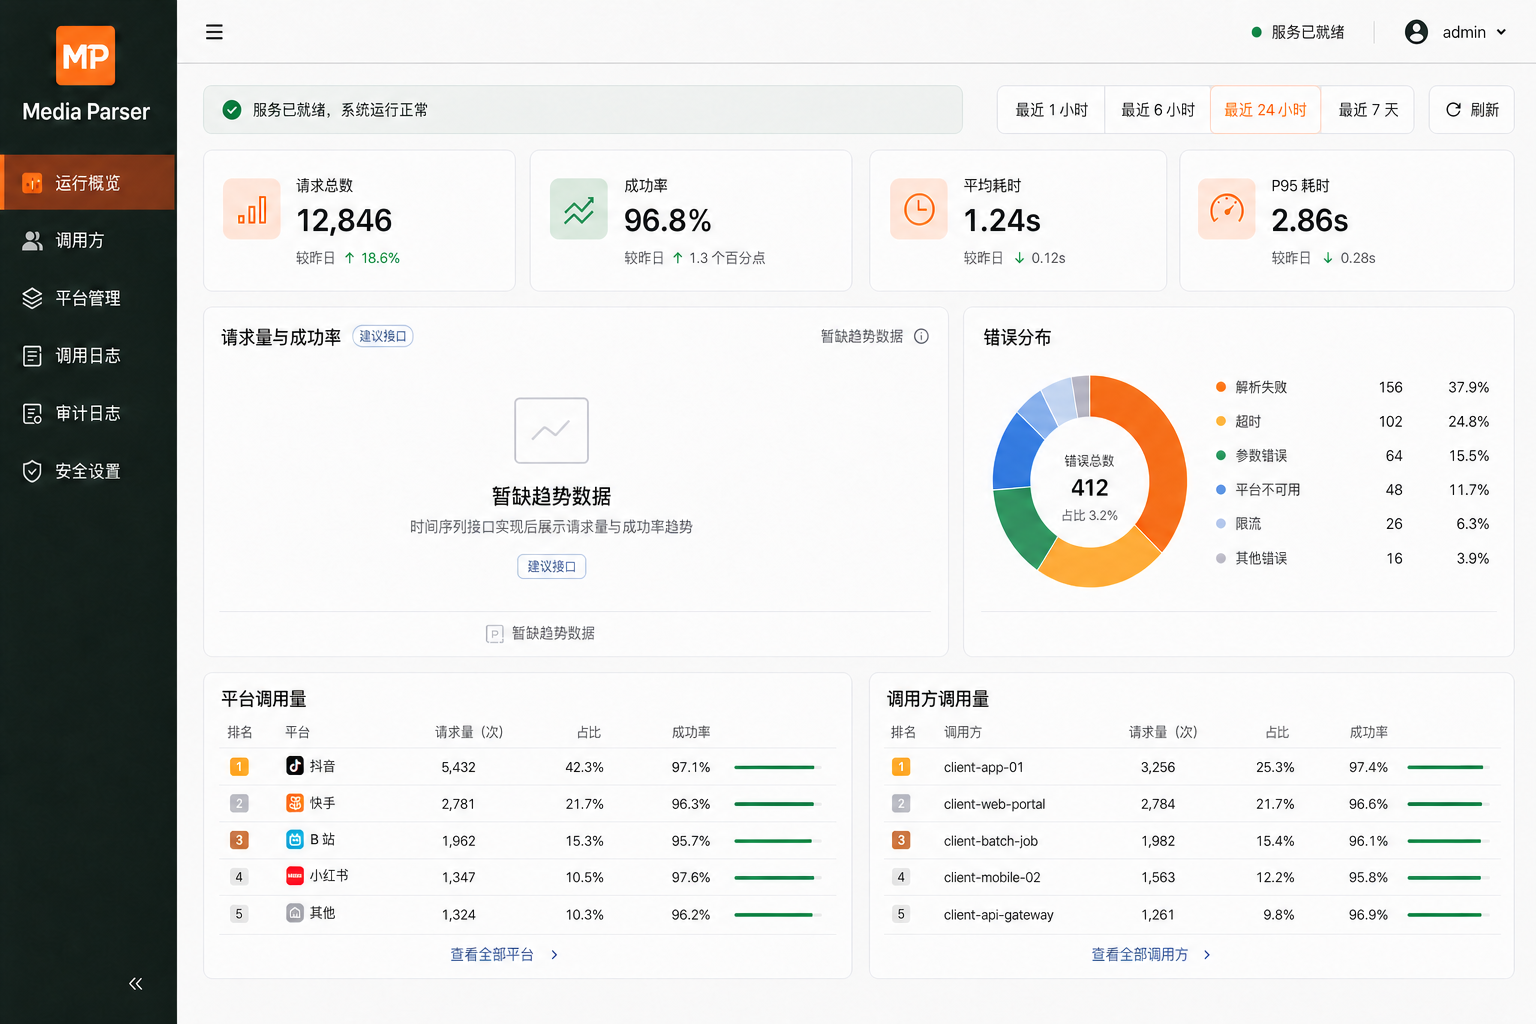
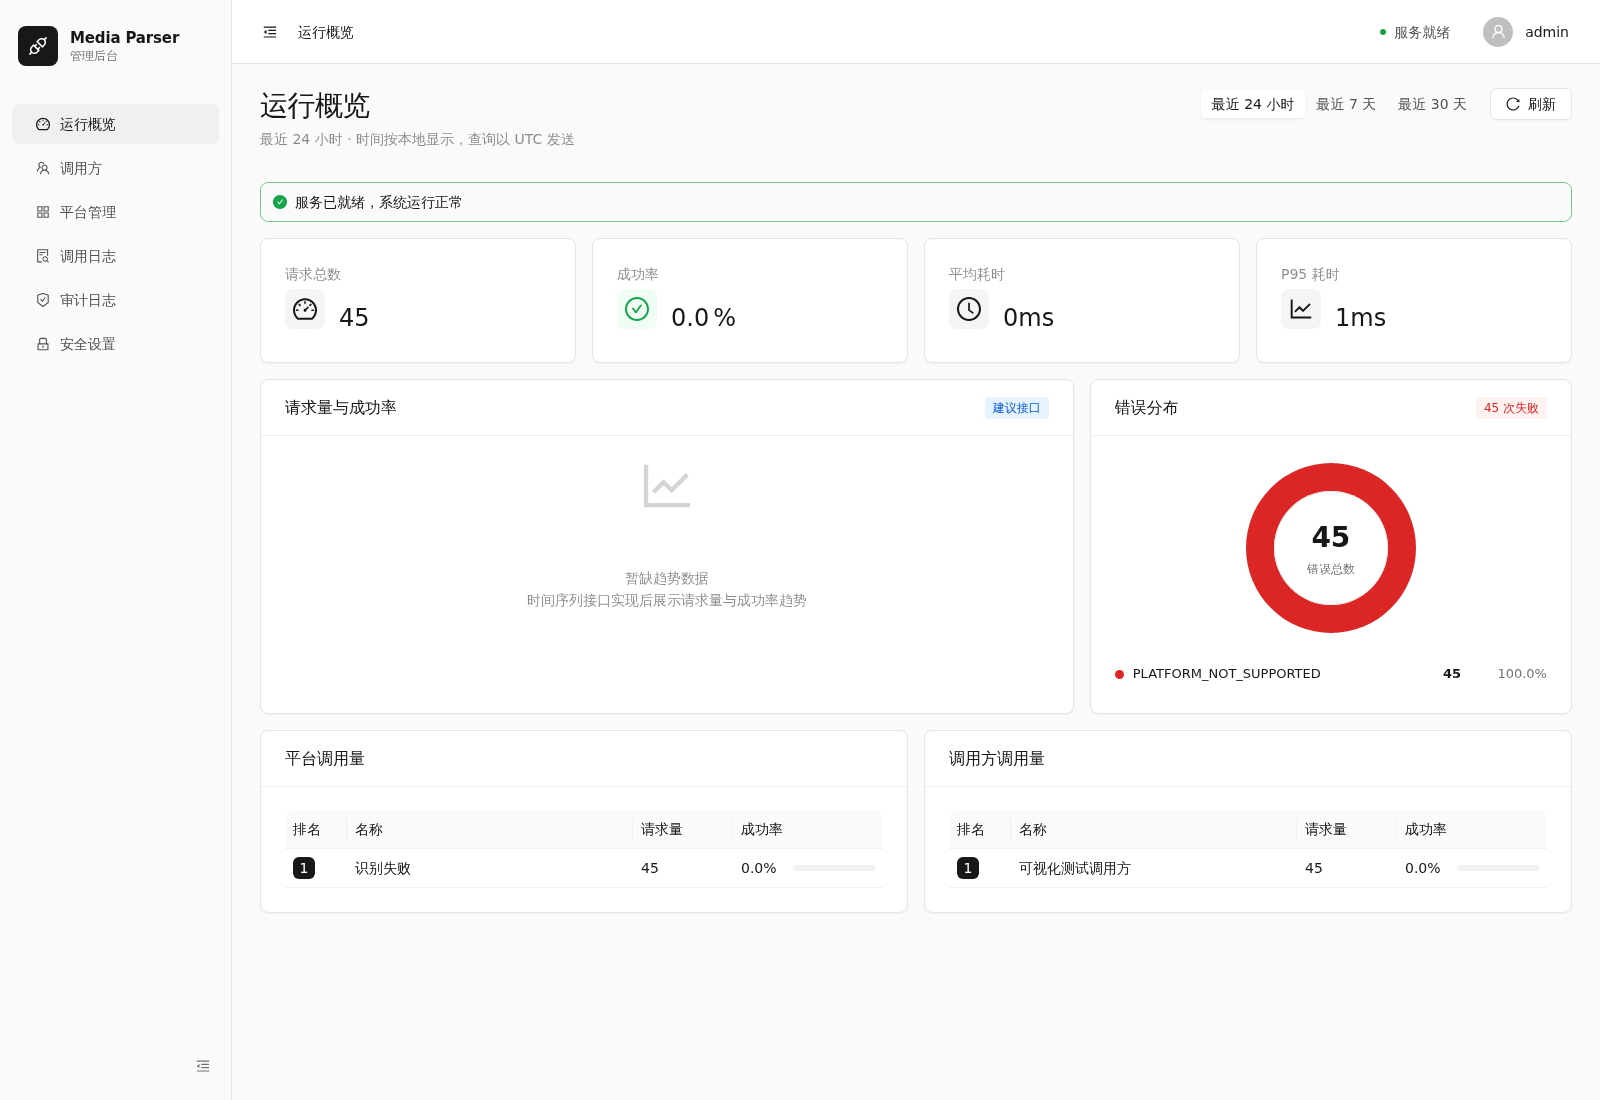
Refactor code structure for improved readability and maintainability

diff --git a/docs/admin-ui-design/README.md b/docs/admin-ui-design/README.md
@@ -1,20 +1,39 @@
 # Media Parser 后台管理界面设计方案
 
-> 文档状态：设计提案  
+> 文档状态：已实现界面说明与设计基线
 > 适用服务：`media-parser-ts` 0.1.x  
 > 基线日期：2026-08-30（Asia/Shanghai）  
-> 交付边界：本文只描述界面与交互，不代表已经创建前端工程或修改 API。
+> 当前实现：`admin/` 使用 React 19、Ant Design 6 与响应式 CSR 路由。文中标为“建议接口”的能力仍不属于当前 API。
 
 ## 1. 结论
 
 后台管理端面向唯一超级管理员，用来维护调用方与 API Key、控制平台状态和凭据、查看解析日志与统计、执行受控平台测试，并完成管理员自身的安全操作。
 
-界面采用“暖白 + 墨绿 + 橙色”的品牌视觉，但信息密度高于公开端。桌面端使用固定工作区和可折叠侧栏，移动端将导航改为抽屉；列表、筛选和详情始终优先保证完整业务信息，不通过截断原始 JSON 来掩盖布局问题。
+界面采用黑白中性色和克制的功能色，保持较高信息密度。桌面端使用固定工作区和可折叠侧栏，移动端将导航改为抽屉；列表、筛选和详情始终优先保证完整业务信息，不通过截断原始 JSON 来掩盖布局问题。
 
 本文严格区分两类能力：
 
 - **现有能力**：当前 `media-parser-ts` 已有 API，可直接映射到界面。
 - **建议能力**：为了完善仪表盘或审计体验建议补充的只读 API；本文不修改服务端实现。
+
+### 当前实现截图
+
+运行概览（桌面端）：
+
+![管理后台运行概览](admin-dashboard-desktop.png)
+
+调用日志（桌面端，含调用 IP 与分页）：
+
+![管理后台调用日志](admin-logs-desktop.png)
+
+移动端平台管理与调用日志：
+
+<p align="center">
+  <img src="platform-management-mobile.png" width="360" alt="移动端平台管理">
+  <img src="admin-logs-mobile.png" width="360" alt="移动端调用日志">
+</p>
+
+> 截图使用隔离演示数据，不包含真实 API Key、Cookie 或管理员凭据。
 
 ## 2. 产品定位
 
@@ -57,7 +76,7 @@
 4. **列表用于定位，详情用于理解**：表格保持高信噪比，长文本、输入与完整响应放入 Drawer。
 5. **筛选条件可复核**：日期、时区、平台、调用方和状态在查询结果上方保持可见。
 6. **真实边界透明**：Mock、接口错误、服务未就绪和上游测试失败分别表达。
-7. **组件使用公开 API**：若未来采用 Ant Design 6，使用一个根 `ConfigProvider` 和主题 Token，不依赖 `.ant-*` 内部选择器。
+7. **组件使用公开 API**：当前 Ant Design 6 应用使用一个根 `ConfigProvider` 和主题 Token，不依赖 `.ant-*` 内部选择器。
 
 ## 4. 信息架构
 
@@ -287,7 +306,7 @@ flowchart TD
 | error_code | 文本输入 |
 | request_id | 精确文本输入 |
 
-筛选条件写入 URL 查询参数，但不得把输入全文或响应写入 URL。当前日志 API 使用游标分页，界面使用“加载更多”，不伪造总页数。
+筛选条件写入 URL 查询参数，但不得把输入全文或响应写入 URL。当前日志 API 使用服务端页码分页，支持每页 20、50 或 100 条并返回真实总数；兼容调用方仍可继续使用旧的 `cursor`/`limit` 参数。
 
 #### 表格列
 
@@ -300,6 +319,7 @@ flowchart TD
 | 状态 | Pending、成功、失败、客户端取消 |
 | HTTP/retcode | 紧凑双值 |
 | 错误码 | 失败时显示 |
+| 调用 IP | 按请求日志记录显示，缺失时显示 `—` |
 | 耗时 | 毫秒/秒自适应 |
 | 操作 | 查看详情 |
 
@@ -346,9 +366,9 @@ flowchart TD
 
 ## 7. 组件与视觉语言
 
-### 7.1 组件层级建议
+### 7.1 组件层级
 
-若未来实现为 Ant Design 6 CSR 应用，建议只使用公开组件 API：
+当前实现为 Ant Design 6 CSR 应用，使用以下公开组件 API：
 
 | 场景 | 建议组件 |
 | --- | --- |
@@ -367,19 +387,17 @@ flowchart TD
 
 | Token | 值 | 用途 |
 | --- | --- | --- |
-| `colorInk` | `#18211D` | 主文字、侧栏品牌色 |
-| `colorInkSoft` | `#35423B` | 次级深色区域 |
-| `colorCanvas` | `#F3F5F0` | 页面背景 |
+| `colorPrimary` | `#18181B` | 主按钮、品牌标记和选中状态 |
+| `colorCanvas` | `#FAFAFA` | 页面与侧栏背景 |
 | `colorSurface` | `#FFFFFF` | 卡片与表格背景 |
-| `colorSurfaceWarm` | `#F9FAF6` | 筛选和次级面板 |
-| `colorPrimary` | `#E85D35` | 主按钮、选中和关键强调 |
-| `colorPrimaryHover` | `#C94825` | 主操作悬停 |
-| `colorSuccess` | `#167A59` | 成功、已就绪 |
-| `colorWarning` | `#B86A12` | 待处理、即将过期 |
-| `colorError` | `#B83A3A` | 失败、吊销、删除 |
-| `colorInfo` | `#2F6F91` | 中性信息 |
-| `colorBorder` | `#D9DED7` | 边框与分隔线 |
-| `colorTextSecondary` | `#68736D` | 次级文字 |
+| `colorSurfaceMuted` | `#F5F5F5` | 筛选、图标和悬停表面 |
+| `colorSuccess` | `#16A34A` | 成功、已就绪 |
+| `colorWarning` | `#D97706` | 待处理、即将过期 |
+| `colorError` | `#DC2626` | 失败、吊销、删除 |
+| `colorInfo` | `#2563EB` | 中性信息与链接 |
+| `colorBorder` | `#E5E5E5` | 边框与分隔线 |
+| `colorText` | `#171717` | 主文字 |
+| `colorTextSecondary` | `#525252` | 次级文字 |
 
 ### 7.3 排版与尺寸
 
@@ -393,12 +411,12 @@ flowchart TD
 | 表格正文 | 13px / 20px |
 | 辅助文字 | 12px / 18px |
 | 基础间距 | 4px，常用 8/12/16/24/32 |
-| 卡片圆角 | 14px |
-| 输入/按钮圆角 | 9px |
+| 卡片圆角 | 8px |
+| 输入/按钮圆角 | 6px |
 | Drawer 宽度 | 桌面 640px；日志详情 760px；手机 100% |
-| 阴影 | `0 14px 36px rgb(24 33 29 / 8%)` |
+| 阴影 | `0 1px 2px rgb(0 0 0 / 4%)` |
 
-橙色只用于主要操作、当前选中和少量品牌强调，不用于大面积背景。危险操作始终使用错误色，不能仅依赖橙色深浅区分。
+黑白中性色用于主体层级，成功、警告、错误和信息色只用于对应业务状态；危险操作始终使用错误色，不能只依赖颜色表达。
 
 ## 8. 线框图
 
@@ -433,11 +451,11 @@ flowchart TD
 │               │ │ 时间范围  调用方  Key  平台  状态  Request ID  [查询] │ │
 │               │ └─────────────────────────────────────────────────────────┘ │
 │               │ ┌─────────────────────────────────────────────────────────┐ │
-│               │ │ 时间 │ Request ID │ 调用方 │ 平台 │ 状态 │ 耗时 │ 操作│ │
+│               │ │ 时间 │ Request ID │ 调用方 │ 平台 │ 状态 │ IP │ 耗时 │ │
 │               │ │ ...                                                   │ │
 │               │ │ ...                                                   │ │
 │               │ └─────────────────────────────────────────────────────────┘ │
-│               │                         [加载更多]                          │
+│               │              第 1–20 条，共 N 条  [1] [2] [20 条/页]      │
 └───────────────┴─────────────────────────────────────────────────────────────┘
 ```
 
@@ -496,7 +514,7 @@ flowchart TD
 | 平台启停 | `PATCH /api/admin/v1/platforms/{platformId}` | 修改 `enabled` |
 | 凭据设置/删除 | `PUT/DELETE /api/admin/v1/platforms/{platformId}/credentials/{credentialName}` | 明文只写入，不返回 |
 | 平台测试 | `POST /api/admin/v1/platforms/{platformId}/test` | 全局串行、单平台冷却 60 秒 |
-| 日志列表 | `GET /api/admin/v1/logs` | 多条件筛选、游标分页 |
+| 日志列表 | `GET /api/admin/v1/logs` | 多条件筛选、`page`/`page_size`/`total` 分页；兼容旧游标参数 |
 | 日志详情 | `GET /api/admin/v1/logs/{logId}` | 包含输入与完整响应 |
 | 日志导出 | `GET /api/admin/v1/logs/export` | 起止时间必填，最多 30 天，JSONL |
 | 汇总统计 | `GET /api/admin/v1/stats/overview` | 聚合、错误和百分位 |
@@ -615,7 +633,7 @@ from=<UTC ISO>&to=<UTC ISO>&bucket=hour|day
 - [ ] 所有现有管理 API 都有明确的页面入口或说明。
 - [ ] 建议接口与现有接口有清晰标记，不使用假趋势或假审计数据。
 - [ ] 强制改密期间无法进入其他管理页面。
-- [ ] 日志列表使用游标加载，不展示虚假的总页数。
+- [ ] 日志列表使用服务端页码分页，展示真实总数，筛选变化后回到第一页。
 - [ ] 时间筛选明确本地显示与 UTC 查询转换。
 
 ### 安全
@@ -636,6 +654,5 @@ from=<UTC ISO>&to=<UTC ISO>&bucket=hour|day
 
 ### 文档边界
 
-- [ ] 本文不承诺已创建后台应用、BFF、建议接口或任何部署配置。
-- [ ] 实现时仍需基于当时实际 OpenAPI 和 Ant Design 版本核对组件 API。
-
+- [ ] 已实现界面与仍属建议的接口有清晰标记，不以演示数据代替生产能力。
+- [ ] 变更时仍需基于当前 OpenAPI 和 Ant Design 版本核对接口与组件 API。

diff --git a/README.md b/README.md
@@ -42,7 +42,13 @@
 
 ### 管理后台
 
-![管理后台](docs/admin-ui-design/admin-dashboard-desktop.png)
+运行概览：
+
+![管理后台运行概览](docs/admin-ui-design/admin-dashboard-desktop.png)
+
+调用日志（调用 IP 与服务端分页）：
+
+![管理后台调用日志](docs/admin-ui-design/admin-logs-desktop.png)
 
 ## 支持平台
 
